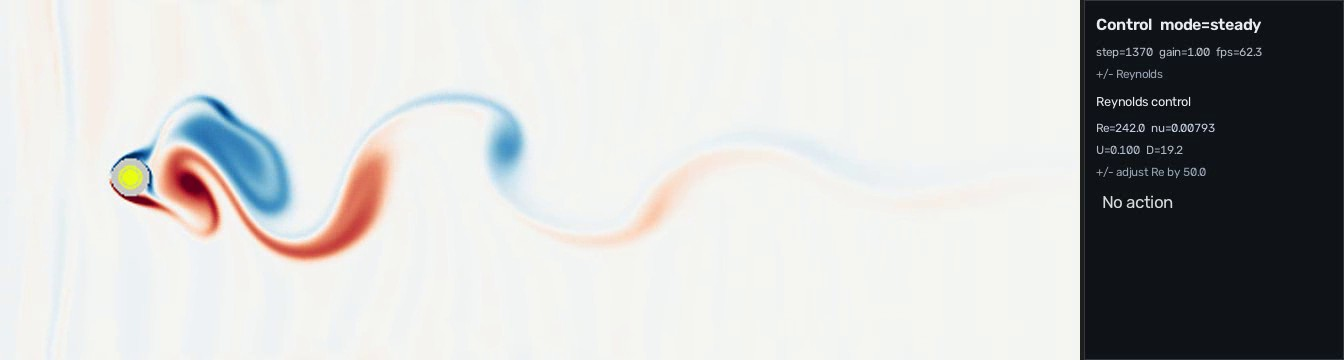
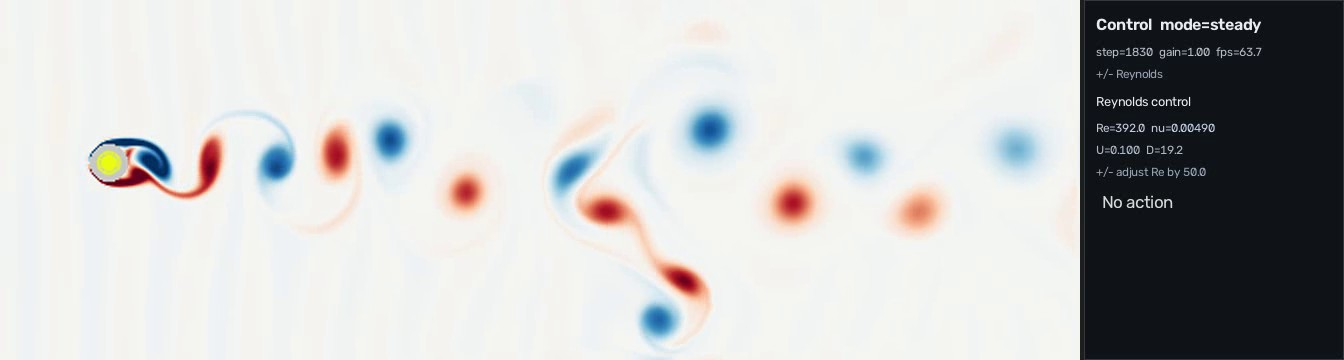
docs: animate example gallery

diff --git a/tools/extract_demo_screenshots.py b/tools/extract_demo_screenshots.py
@@ -20,6 +20,24 @@ SCREENSHOTS = {
     ),
 }
 ANIMATIONS = {
+    "eel2d.gif": (
+        "outputs/eel_lbm.mp4",
+        0.0,
+        4.0,
+        10.0,
+        360,
+        128,
+        0,
+    ),
+    "eel3d-vorticity.gif": (
+        "outputs/eel_lbm_orbit_slice9.mp4",
+        2.0,
+        6.0,
+        10.0,
+        480,
+        128,
+        0,
+    ),
     "karman2d.gif": (
         "outputs/karman_vortex_2d.mp4",
         0.0,

diff --git a/docs/examples/index.md b/docs/examples/index.md
@@ -20,10 +20,10 @@ directory. Output paths are explicit and live under `outputs/`.
 
 | Projected 2D eel | 3D vorticity slices |
 | --- | --- |
-| ![Projected eel moving through a planar vorticity field](../assets/demos/eel2d.jpg) | ![Three-dimensional eel inside signed-vorticity slices](../assets/demos/eel3d-vorticity.jpg) |
+| ![Projected eel moving through a planar vorticity field](../assets/demos/eel2d.gif) | ![Three-dimensional eel inside signed-vorticity slices](../assets/demos/eel3d-vorticity.gif) |
 | Full 3D MuJoCo bodies projected into D2Q9 flow | Mesh-coupled eel in a D3Q27 domain |
 
 | 2D Kármán wake | SAC forward policy |
 | --- | --- |
-| ![Alternating vortices behind a projected cylinder](../assets/demos/karman2d.jpg) | ![Pretrained SAC eel policy swimming forward](../assets/demos/sac-forward.jpg) |
+| ![Alternating vortices behind a projected cylinder](../assets/demos/karman2d.gif) | ![Pretrained SAC eel policy swimming forward](../assets/demos/sac-forward.gif) |
 | Live Reynolds-number control around a fixed cylinder | Train an eel to swim forward with SAC |

diff --git a/docs/examples/realtime-2d.md b/docs/examples/realtime-2d.md
@@ -25,7 +25,7 @@ This configuration projects the articulated 3D eel model into twelve planar
 immersed boundaries. The right panel exposes the traveling-wave control
 parameters; MuJoCo continues to evolve the full 3D articulated state.
 
-![Projected articulated eel and its planar vorticity wake](../assets/demos/eel2d.jpg)
+![Projected articulated eel and its planar vorticity wake](../assets/demos/eel2d.gif)
 
 *The rigid bodies remain three-dimensional while the immersed boundary and
 fluid field are projected onto the D2Q9 plane.*
@@ -42,7 +42,7 @@ symmetric wake. The
 live panel reports Reynolds number; `+` and `-` adjust it, while `W`, `A`, `S`,
 and `D` move the projected cylinder boundary in LBM space.
 
-![Alternating Kármán vortex street behind the projected cylinder](../assets/demos/karman2d.jpg)
+![Alternating Kármán vortex street behind the projected cylinder](../assets/demos/karman2d.gif)
 
 *Signed vorticity highlights the alternating wake; the right panel reports the
 live Reynolds-number settings.*

diff --git a/docs/examples/realtime-3d.md b/docs/examples/realtime-3d.md
@@ -17,7 +17,7 @@ Drag to orbit, use the mouse wheel to zoom, press `Space` to pause, `R` to
 reset, and `Q` or `Esc` to quit. Preset keys include `W` for forward, `A`/`D`
 for turns, `F` for fast motion, and `S` for idle.
 
-![Articulated eel inside transparent three-dimensional vorticity slices](../assets/demos/eel3d-vorticity.jpg)
+![Articulated eel inside transparent three-dimensional vorticity slices](../assets/demos/eel3d-vorticity.gif)
 
 *The orbit renderer stacks signed-vorticity slices around the MuJoCo eel while
 the coupled simulation advances on Warp.*

diff --git a/docs/examples/sac-training.md b/docs/examples/sac-training.md
@@ -31,7 +31,7 @@ The training artifacts are written under `outputs/sac_minimal/` as
 `sac_eel2d_forward_cpg.zip` and `sac_eel2d_forward_cpg_config.json`. The saved
 JSON records the physical CPG parameter ranges used alongside the policy archive.
 
-![Pretrained SAC forward policy evaluated in the projected eel environment](../assets/demos/sac-forward.jpg)
+![Pretrained SAC forward policy evaluated in the projected eel environment](../assets/demos/sac-forward.gif)
 
 *The checked-in policy runs the forward task; the overlay reports reward,
 accumulated return, simulation steps, and playback speed.*